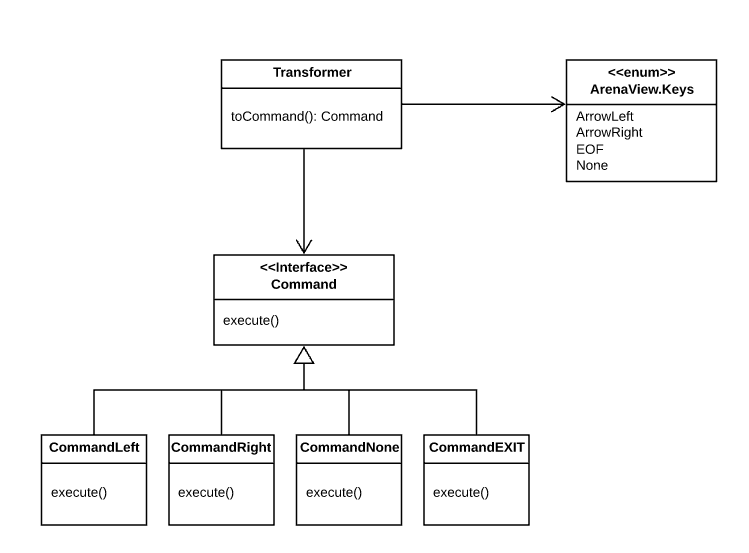
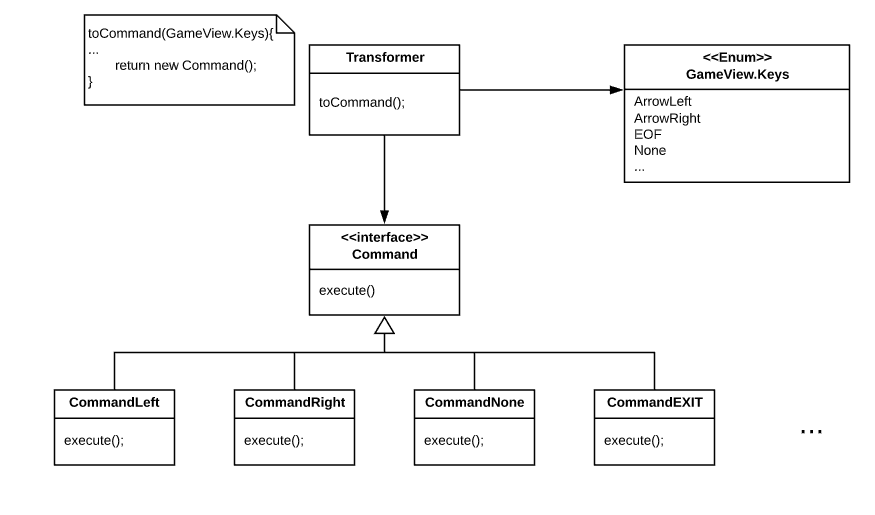
Changed some more patterns on README.md

Changed region(s): [[0.0307, 0.0, 0.9826, 0.9631]]

diff --git a/docs/README.md b/docs/README.md
@@ -165,6 +165,7 @@ To solve this problem, we applied the **Abstract Factory** pattern. With this pa
 <img src="AbstractFactoryPattern.png" height="170"/>
 
 The classes in the diagram can be found in these files:
+- [StateFactory](../src/main/java/com/g19/breakout/controller/state/StateFactory.java)
 - [ArenaView](../src/main/java/com/g19/breakout/view/ArenaView.java)
 - [ViewFactory](../src/main/java/com/g19/breakout/view/factory/ViewFactory.java)
 - [BasicViewFactory](../src/main/java/com/g19/breakout/view/factory/BasicViewFactory.java)
@@ -196,20 +197,10 @@ We wan't to maintain the MVC structure while the controller gets information abo
 
 The classes in the diagram can be found in these files:
 - View:
-  -  [ArenaView.Keys](../src/main/java/com/g19/breakout/view/ArenaView.java#L20)
+  -  [GameView.Keys](../src/main/java/com/g19/breakout/view/GameView.java#L11)
 - [Transfomer](../src/main/java/com/g19/breakout/controller/Transformer.java)
 - [Commands](../src/main/java/com/g19/breakout/controller/commands)
 
-
-*Implementation for the ball hits received from the model*
-
-<img src="FactoryPatternForBallHit.png" height="300">
-
-The classes in the diagram can be found in these files:
-- View:
-  -  [BallModel.HIT](../src/main/java/com/g19/breakout/model/BallModel.java#L11)
-- [Transfomer](../src/main/java/com/g19/breakout/controller/Transformer.java)
-- [BallHits](../src/main/java/com/g19/breakout/controller/ball)
 
 #### Consequences
 
